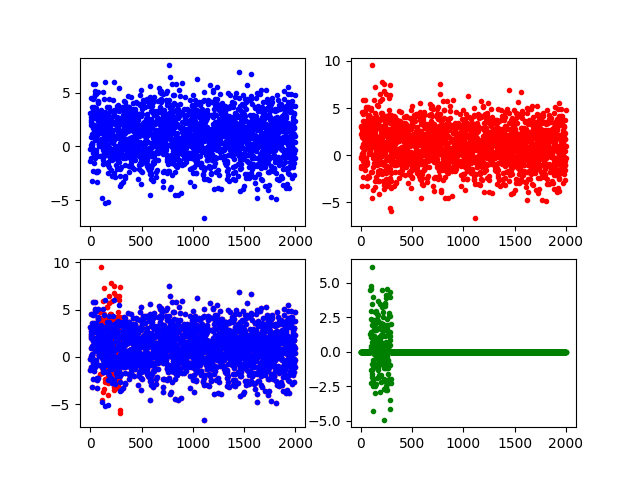
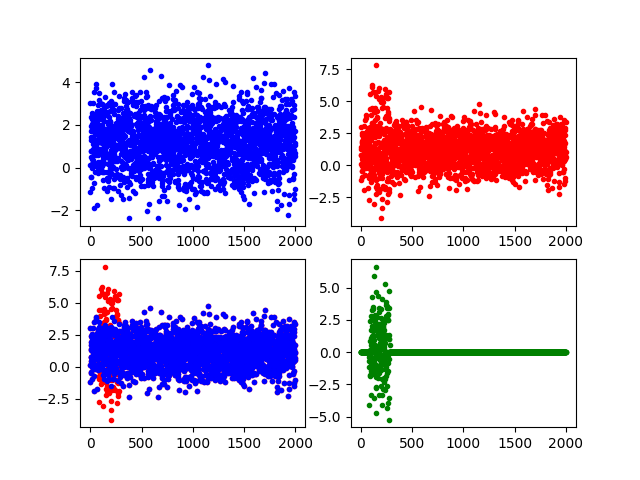
plot

diff --git a/plot_data.py b/plot_data.py
@@ -12,15 +12,19 @@ y = np.load(args.y_path+'.npy')
 '''
 L = 2000
 l = 200
+
+
+s2 = np.random.normal(0.5, 2.0, L)
+s3 = np.random.normal(2.0, 2.0, L)
 s1 = np.random.normal(1.0, 2.0, L) 
 f0 = np.random.normal(0.4, 2.0, l)
 
-s = s1
+s = (s1+s2+s3)/3.0
 f1 = np.zeros(L)
 index = np.random.randint(0, L-l)
 for j in range(l):
 	f1[j+index] += f0[j]
-f = s1+f1
+f = (s1+s2+s3)/3.0+f1
 
 print('check:',np.array_equal(f,s))
 	

diff --git a/generate_data.py b/generate_data.py
@@ -20,7 +20,7 @@ for i in range(N):
 	s3 = np.random.normal(2.0, 2.0, L)
 	f0 = np.random.normal(0.4, 2.0, l)
 
-	s = s1
+	s = (s1+s2+s3)/3.0
 	f1 = np.zeros(L)
 	index = np.random.randint(0, L-l)
 	for j in range(l):
